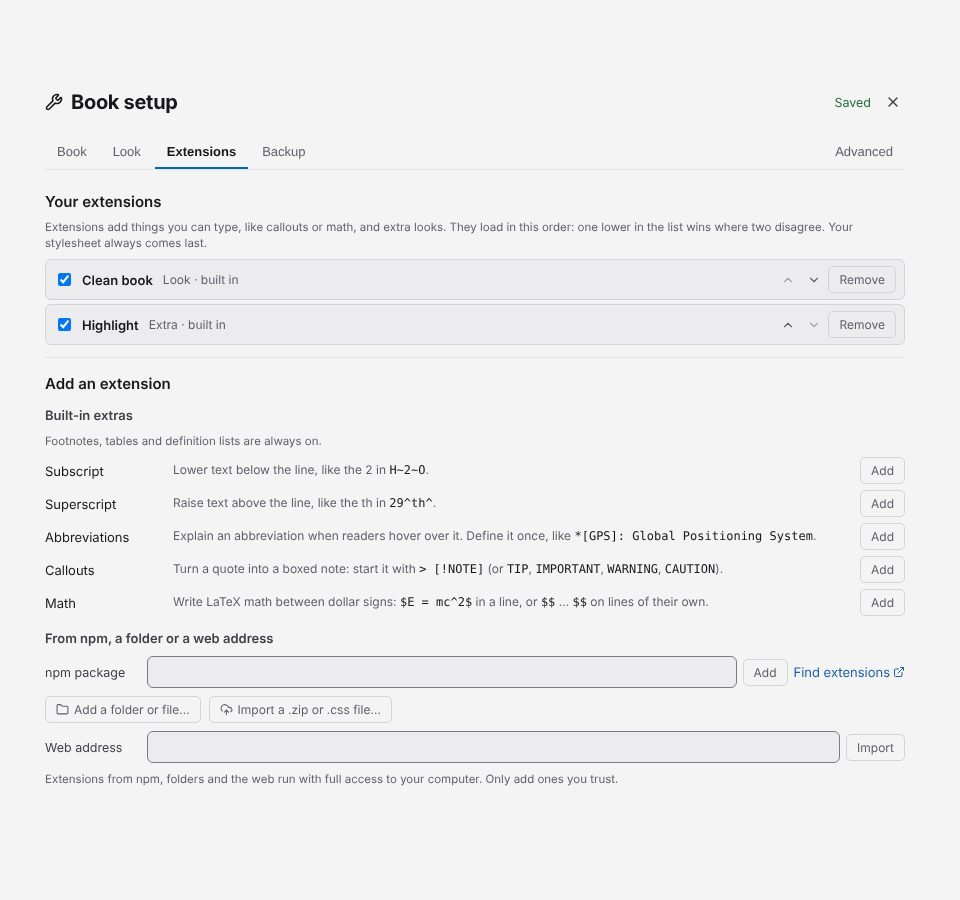
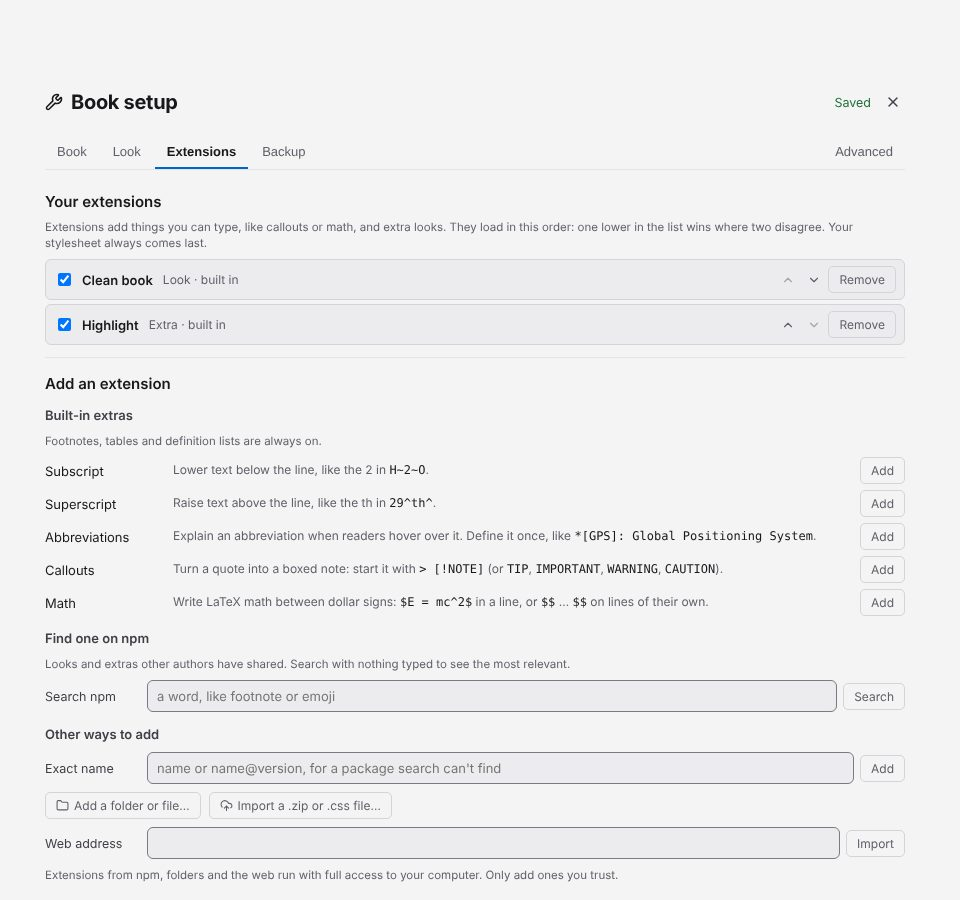
Docs: npm search is back on the Extensions tab
The UX contract (§9 and the Book setup tree) and the desktop guide say how
to find a plugin on npm, and no longer say search was removed. The guide
screenshots script takes the search; extensions-search.jpg is new and
book-settings-extensions.jpg is retaken.

Claude-Session: https://claude.ai/code/session_0178UQ9MC2nUJf2zfopzSu4q

diff --git a/docs/ux-design-contract.md b/docs/ux-design-contract.md
@@ -133,8 +133,9 @@ gutterpress/
 │   │                                                    manifest's ordered list: checkbox, move,
 │   │                                                    Remove), then Add an extension: the
 │   │                                                    built-in extras the book does not list,
-│   │                                                    each with what to type, then npm, folder,
-│   │                                                    .zip/.css and web-address adds)
+│   │                                                    each with what to type, an npm search,
+│   │                                                    then exact-name, folder, .zip/.css and
+│   │                                                    web-address adds)
 │   ├── Backup (id `backup`)                   SHIPPED  (ProjectConnectionsSection: one sentence for
 │   │                                                    the book's situation and at most one
 │   │                                                    primary action; GitHub or the book's own
@@ -763,16 +764,28 @@ label, its kind and source in words ("Look · built in", "Extra · npm
 attention: "Version x is available." with Update, "Not downloaded yet." with
 Install, "Couldn't load." with Show details and Check again. Updates are
 checked once when the tab opens, never at project load. Below the list, one
-*Add an extension* area, in two parts: the **built-in extras** the book does
+*Add an extension* area, in three parts. The **built-in extras** the book does
 not list yet (Highlight, Callouts, Math…), each with what to type and an Add
-button, and then an npm package name, a folder or file referenced in place, a
-`.zip`/`.css` import and a web address (§11). A built-in extra is never shown
-twice: while the book lists it, it is a row of the list; Remove puts it back
-among the ones to add. (Footnotes, tables and definition lists need no
-extension and are always on, which the area says.) No status badges, no
-version picker, no npm search (the website's plugin finder and `gutterpress
-ext search` cover it) and no pre-release switch (`gutterpress ext add
-name@version`).
+button. **Find one on npm** is the way to a published extension: a search box
+whose results are the lib's `searchNpmExtensions` (what `gutterpress ext
+search` prints — packages tagged `gutterpress` or `markdown-it-plugin`),
+asked only when the author submits it (Enter or Search; with nothing typed it
+lists the most relevant), never at project load or on a keystroke. npm
+filters by keyword and only ranks by the words, so a typed search keeps the
+results whose name, description or keywords mention every word. Each result
+is the package name, its description, its kind when npm's keywords say (a
+`gutterpress-look` package is a Look, a plain markdown-it plugin an Extra) and
+an Add that is the same add as typing the name — or "Added" when the book
+lists it. No results, being offline and any other failure are one plain line
+under the box ("No extensions found for …", "Couldn't reach the npm
+registry…"), never a toast. **Other ways to add** are an exact npm name or
+`name@version` (for a package search cannot find, such as a private one), a
+folder or file referenced in place, a `.zip`/`.css` import and a web address
+(§11). A built-in extra is never shown twice: while the book lists it, it is
+a row of the list; Remove puts it back among the ones to add. (Footnotes,
+tables and definition lists need no extension and are always on, which the
+area says.) No status badges, no version picker and no pre-release switch
+(`gutterpress ext add name@version`).
 
 Refinements (PROPOSED): link each plugin to its npm page for
 author/version/last-published metadata; surface load errors inline.

diff --git a/docs/desktop-guide/06-plugins.md b/docs/desktop-guide/06-plugins.md
@@ -1,6 +1,6 @@
 ---
 title: Add plugins and formatting extras
-description: Turn on the built-in formatting extras, add plugins from npm or a folder, keep them up to date, and set the order they load in.
+description: Turn on the built-in formatting extras, find plugins on npm or add them from a folder, keep them up to date, and set the order they load in.
 ---
 
 # Add plugins and formatting extras
@@ -26,15 +26,26 @@ again (footnotes, tables and definition lists are always on):
 | Callouts | `> [!NOTE]`, `> [!TIP]`, `> [!IMPORTANT]`, `> [!WARNING]`, `> [!CAUTION]` |
 | Math | `$E = mc^2$` in a line, or `$$` ... `$$` on lines of their own |
 
-## Add a plugin from npm or a folder
+## Find a plugin on npm
 
-On **Setup → Extensions**, under **Add an extension → From npm, a folder or a web address**:
+Looks and plugins other authors have published are on npm. On **Setup → Extensions**, under **Add an
+extension → Find one on npm**, type a word (such as `footnote` or `emoji`) and press Enter or click
+**Search**; with nothing typed, **Search** lists the most relevant ones. Each result shows the
+package's name, what it does, and whether it is a **Look** or an **Extra** when that is known.
+**Add** downloads it, checks it, keeps a copy inside your book, and adds it to **Your extensions**;
+your book then builds from that copy, even offline. A package your book already uses says **Added**.
+If nothing matches, it says **No extensions found for** what you typed; if npm cannot be reached, it
+says so under the box and you can search again.
 
-- type a package's name in **npm package** (with a version if you want one, such as
-  `markdown-it-highlightjs@4.3.0`) and click **Add**. Gutterpress downloads it, checks it, keeps a
-  copy inside your book, and adds it to the list; your book then builds from that copy, even
-  offline. **Find extensions** opens the [Find plugins](https://gutterpress.dimm.city/plugins/)
-  page, which lists looks and plugins on npm;
+![Book setup, Extensions tab: searching npm for plugins](images/extensions-search.jpg)
+
+## Add a plugin from elsewhere
+
+Under **Add an extension → Other ways to add**:
+
+- type a package's **Exact name** (with a version if you want one, such as
+  `markdown-it-highlightjs@4.3.0`) and click **Add**, for a package that search does not find, such
+  as a private one;
 - **Add a folder or file…** adds a plugin you have on your computer, used where it is;
 - **Import a .zip or .css file…**, or a **Web address** and **Import**, copies a look or plugin into
   your book's `extensions` folder.
